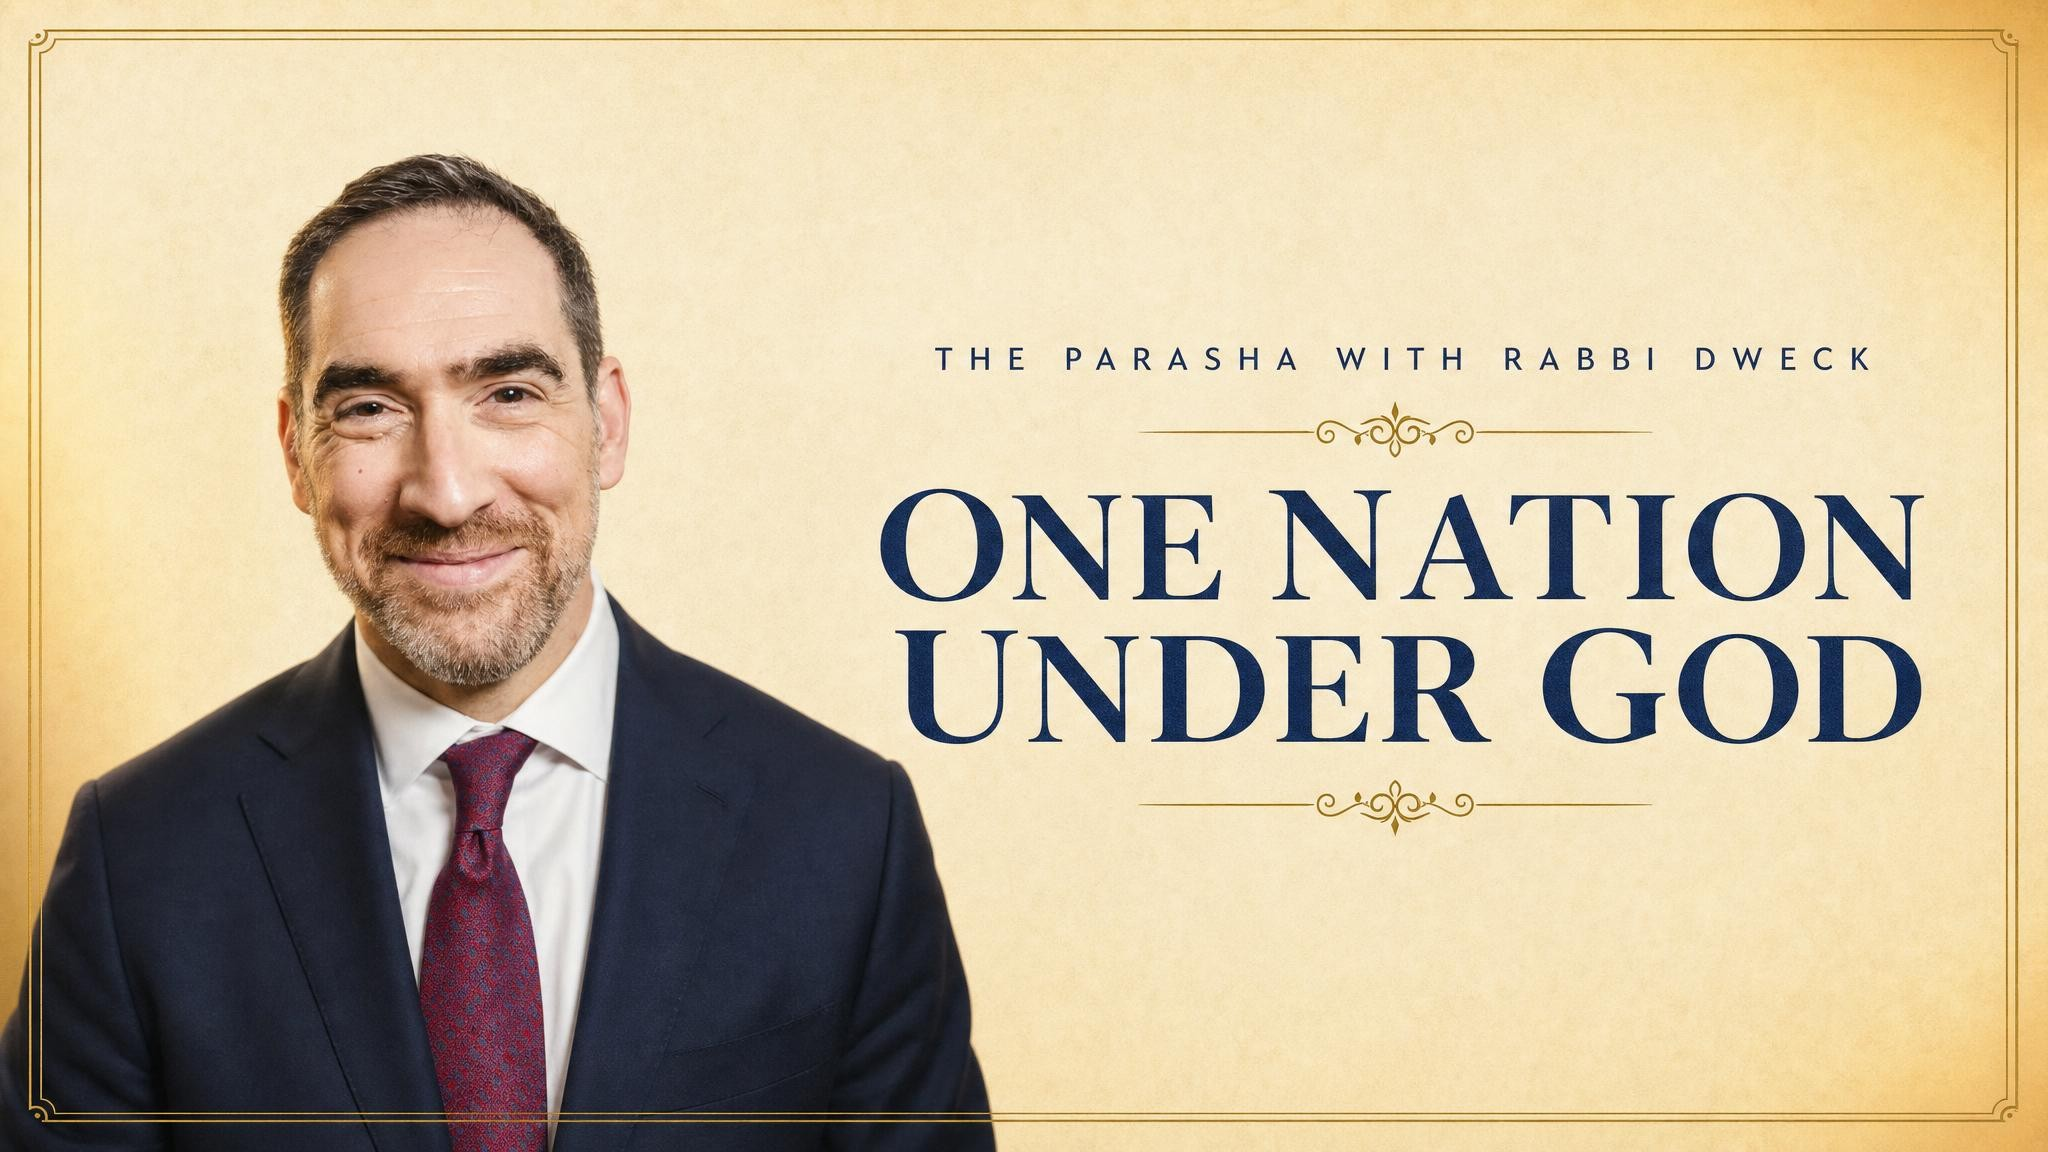
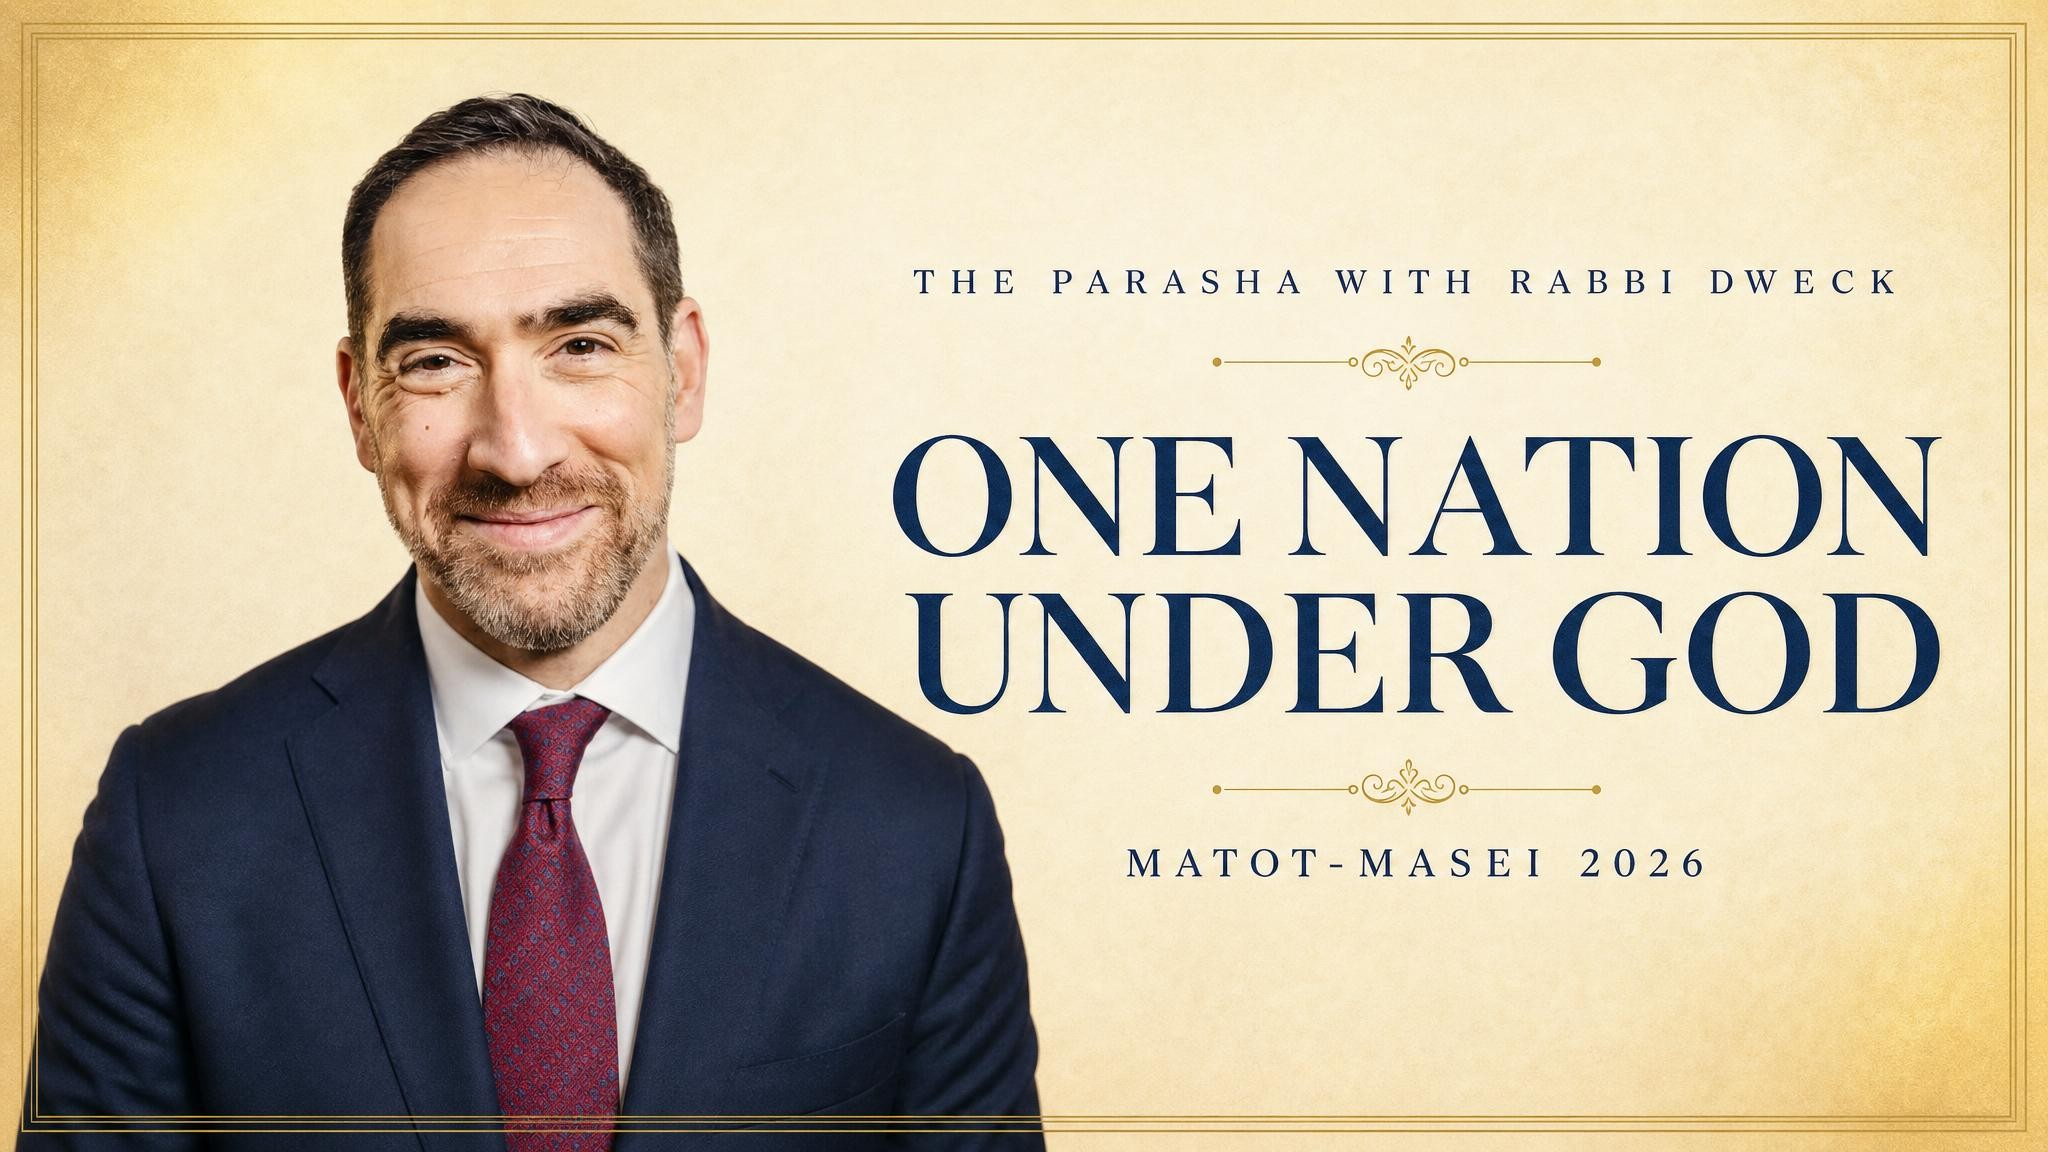
Add thumbnail concepts gallery page and Matot-Masei subtitle
Adds /thumbnails, an Astro page (not linked in nav) showing every
generated Parasha thumbnail option grouped by round for easy review.
Also regenerates the "One Nation Under God" episode thumbnails with the
"MATOT-MASEI 2026" subtitle line for consistency with the others.

diff --git a/public/images/thumbnails/parasha/PROMPTS.md b/public/images/thumbnails/parasha/PROMPTS.md
@@ -81,11 +81,12 @@ Slightly bigger/bolder headline and a gold underline for more thumbnail pop, sti
 > thumbnail readability at small sizes, but still warm, refined, and dignified — no
 > metallic bevel text, no red accents, no dark moody vignette, no clickbait elements.
 
-## Round 3 — "One Nation Under God" episode
+## Round 3 — "Matot-Mas'ei: One Nation Under God" episode
 
 Specific episode thumbnail, same cream/gold template. Explicitly excludes the round
 stained-glass dome/rose window seen in round 2's "Warm Interior" — the user flagged
-it as too clear/in-focus and not wanted in frame at all.
+it as too clear/in-focus and not wanted in frame at all. Includes the "MATOT-MASEI
+2026" subtitle line for consistency with the other episode thumbnails.
 
 ### one_nation_under_god_1_plain_parchment.jpg — flat parchment, no architecture
 
@@ -99,9 +100,10 @@ it as too clear/in-focus and not wanted in frame at all.
 > parchment texture. On the right two-thirds: small tracked-out navy small-caps text
 > reads 'THE PARASHA WITH RABBI DWECK' with a tiny ornate gold flourish divider
 > beneath it; then large elegant bold navy serif headline text, two lines, reading
-> 'ONE NATION UNDER GOD'; beneath that another small ornate gold flourish divider.
-> Calm, refined, editorial, magazine-cover quality, no dark vignette, no metallic
-> bevel text, no clickbait elements, no windows of any kind.
+> 'ONE NATION UNDER GOD'; beneath that another small ornate gold flourish divider;
+> then smaller navy serif text reading 'MATOT-MASEI 2026'. Calm, refined, editorial,
+> magazine-cover quality, no dark vignette, no metallic bevel text, no clickbait
+> elements, no windows of any kind.
 
 ### one_nation_under_god_2_blurred_interior.jpg — soft blurred synagogue bokeh, no window
 
@@ -117,9 +119,9 @@ it as too clear/in-focus and not wanted in frame at all.
 > against the blurred background. On the right two-thirds: small tracked-out navy
 > small-caps text reads 'THE PARASHA WITH RABBI DWECK' with a tiny ornate gold
 > flourish beneath; large elegant bold navy serif headline, two lines, reading 'ONE
-> NATION UNDER GOD'; small ornate gold flourish beneath. Refined, warm, editorial
-> magazine-cover quality, no heavy dark vignette, no metallic bevel text, no
-> clickbait elements, no windows.
+> NATION UNDER GOD'; small ornate gold flourish beneath; then smaller navy serif
+> text reading 'MATOT-MASEI 2026'. Refined, warm, editorial magazine-cover quality,
+> no heavy dark vignette, no metallic bevel text, no clickbait elements, no windows.
 
 ## parasha_thumb_1_gold_dome.jpg — "Gold Dome"
 Closest to the current site branding — photographic instead of blank white.
